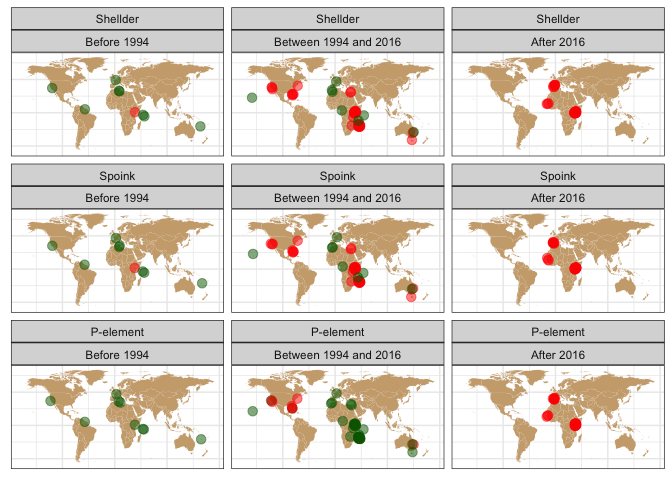
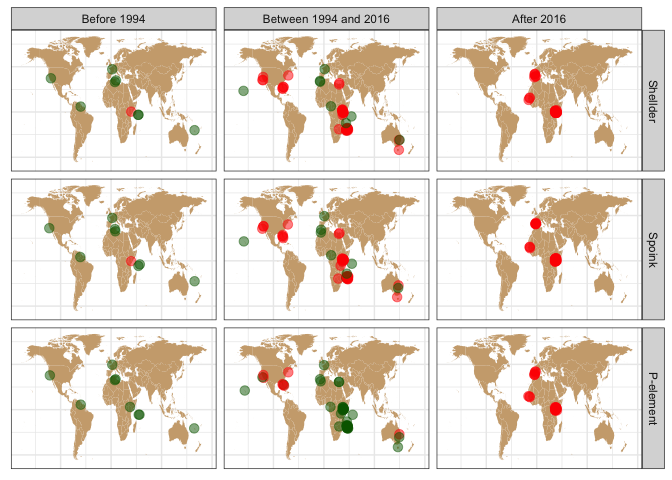
Docu

diff --git a/documentation-ric/timelines.md b/documentation-ric/timelines.md
@@ -141,7 +141,7 @@ plot_map <- function(dataset, ages){
     geom_point(data = dataset, aes(x = lon, y = lat, color = presence), size = 3, position = position_jitter(width = 2, height = 2), alpha = 0.5) +
     scale_colour_manual(values = c("darkgreen", "red")) + 
     theme(plot.title = element_text(hjust = 0.5), axis.text = element_blank(), axis.title = element_blank(), axis.ticks = element_blank(), legend.position = "none") + 
-    facet_wrap(~TE*age)
+    facet_grid(TE~age)
 }
 
 dsim_ages <- c("Before 1994", "Between 1994 and 2016", "After 2016")
